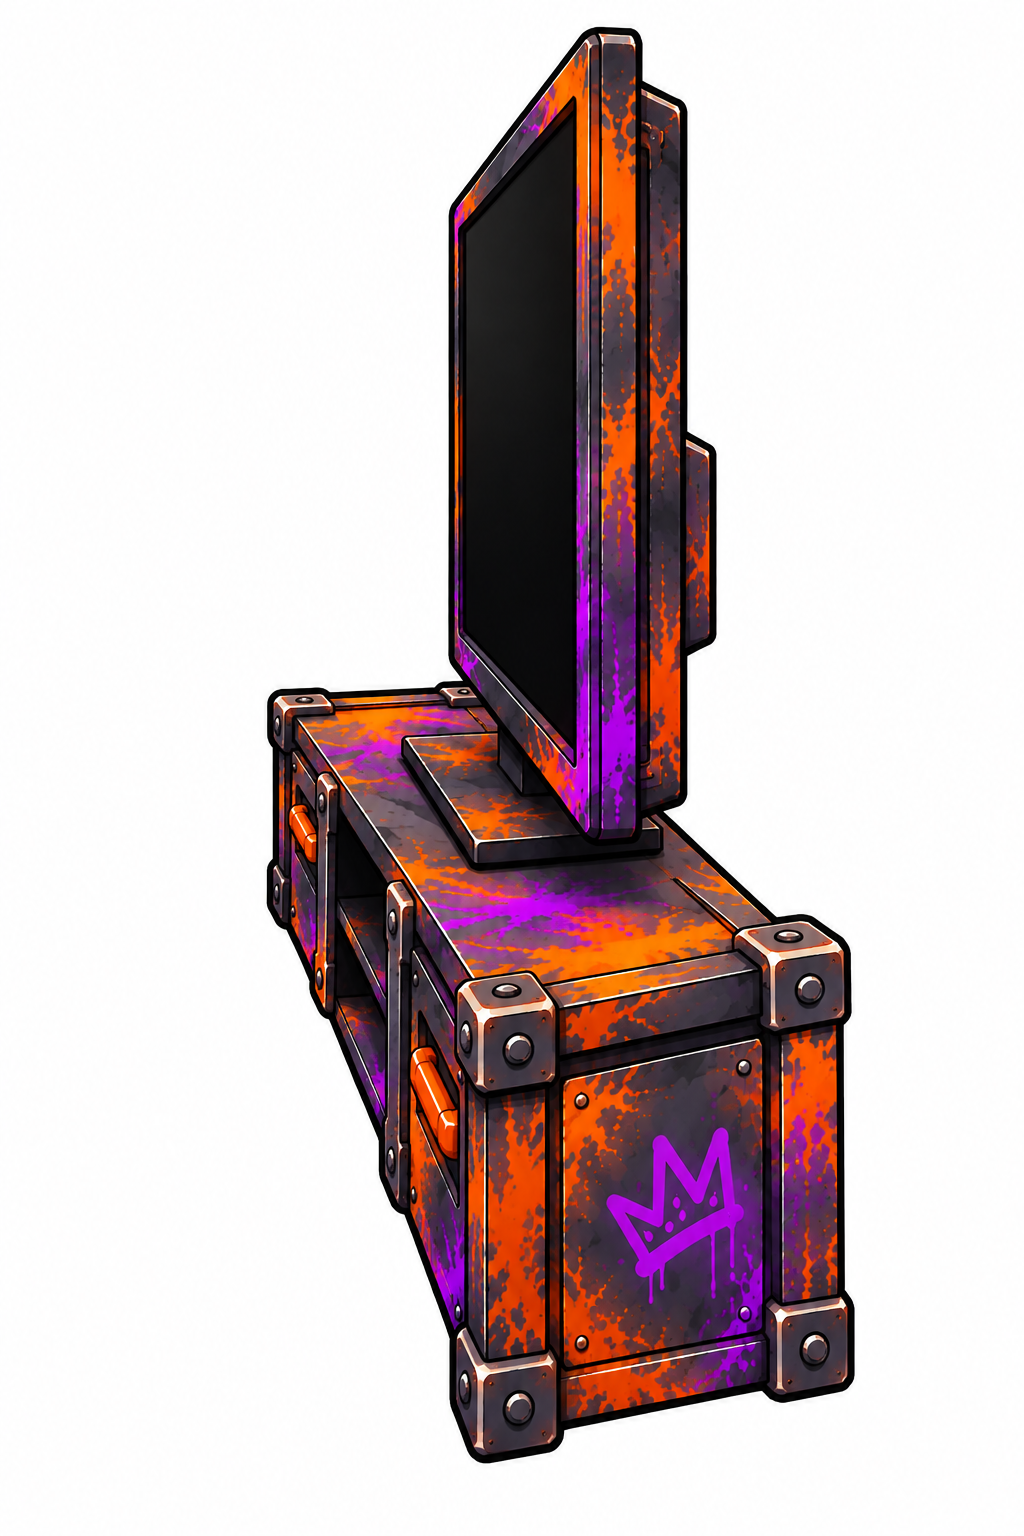
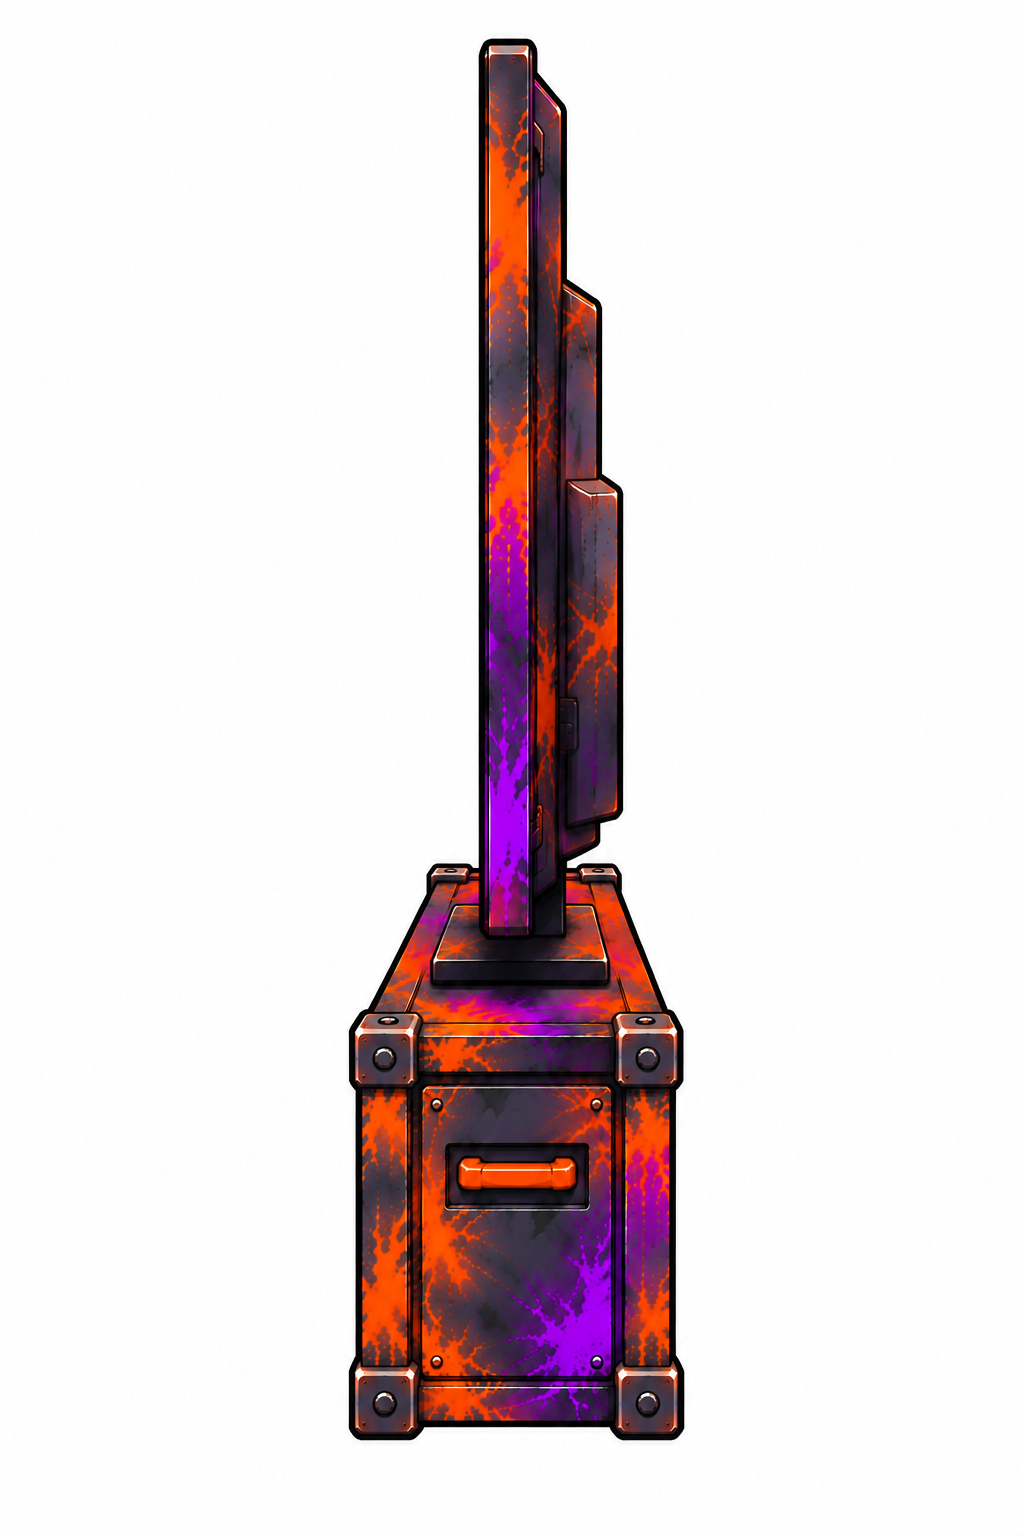
縦向きのテレビの絵を差し替える
Claude-Session: https://claude.ai/code/session_01MXithgTc5umkveoyZShZHQ

diff --git a/src/core/furniture.ts b/src/core/furniture.ts
@@ -88,7 +88,7 @@ export const furnitureKey = (id: string) => `furniture:${id}`;
  * 縦向きの絵がある家具と、その絵の「縦 ÷ 横」(大きさと床の上で占める広さを決めるのに使う)。
  * 縦向きの絵は、反転(向き ボタン)で逆向きにもなる
  */
-export const FURNITURE_TURN_ART: Record<string, number> = { street_bed: 773 / 640, street_sofa: 1379 / 640, street_table: 827 / 640, street_carpet: 769 / 640, street_tv: 1440 / 591 };
+export const FURNITURE_TURN_ART: Record<string, number> = { street_bed: 773 / 640, street_sofa: 1379 / 640, street_table: 827 / 640, street_carpet: 769 / 640, street_tv: 1405 / 339 };
 /**
  * 縦向きの絵の上下の長さの倍率と、そのうち床にのっている割合(テレビは画面が上にのびているので、床の部分は下の方だけ)【仮】
  */

diff --git a/docs/ROOM_PLAN.md b/docs/ROOM_PLAN.md
@@ -221,3 +221,4 @@
 - 2026-10-22：企画者の指示で、BUNKは左右の家具に体がめりこまないように、体のはばの分だけ家具の横を離れて歩く（家具の後ろでかくれるのはそのまま）
 - 2026-10-22：STREETテレビの縦向きの絵が届いた（画面が上にのびているので、床にのる部分は下の方だけ）
 - 2026-10-22：企画者の指示で、テレビ（と照明・植物）は床の線に合わせてかたむけない（まっすぐ立てる）。縦向きのテレビを少し小さく（1.5倍【仮】）
+- 2026-10-22：企画者の指示で、縦向きのテレビの絵を真横から見た絵に差し替え（前の絵は design/furniture/unused/）
